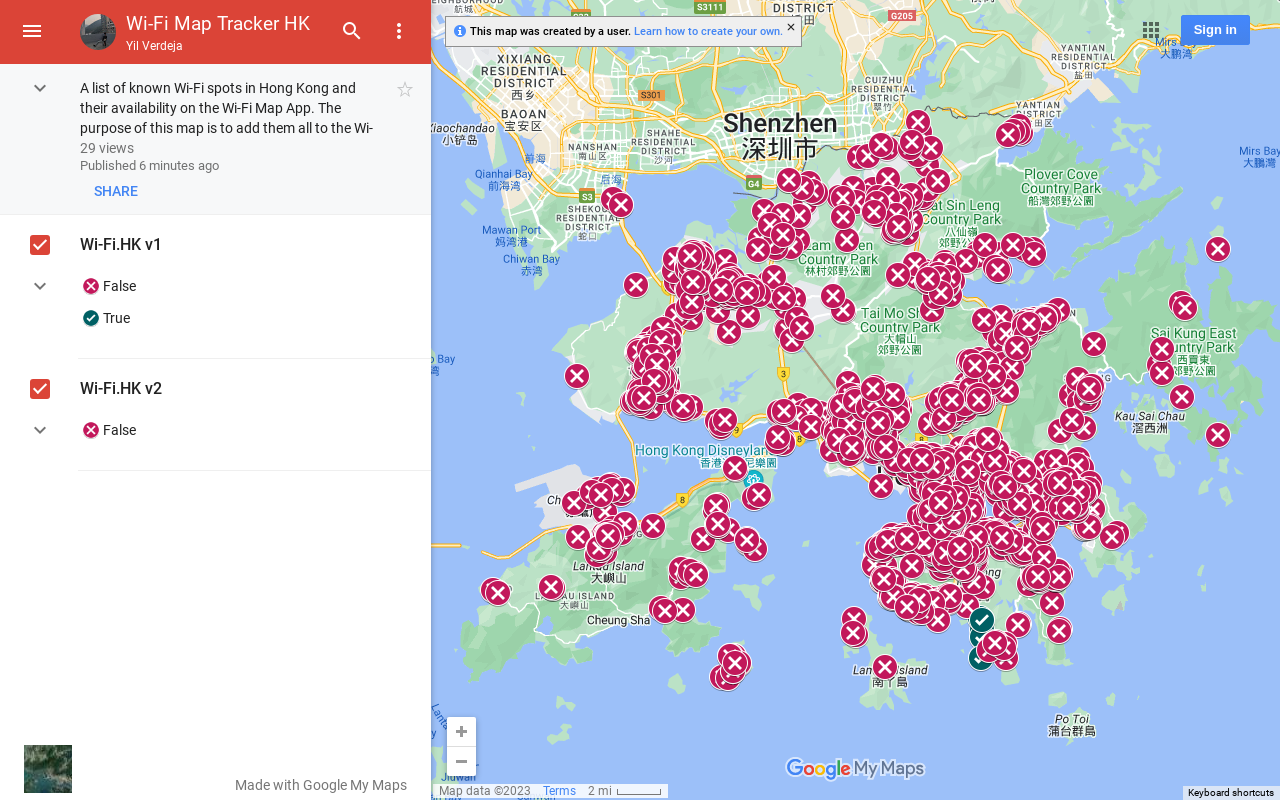
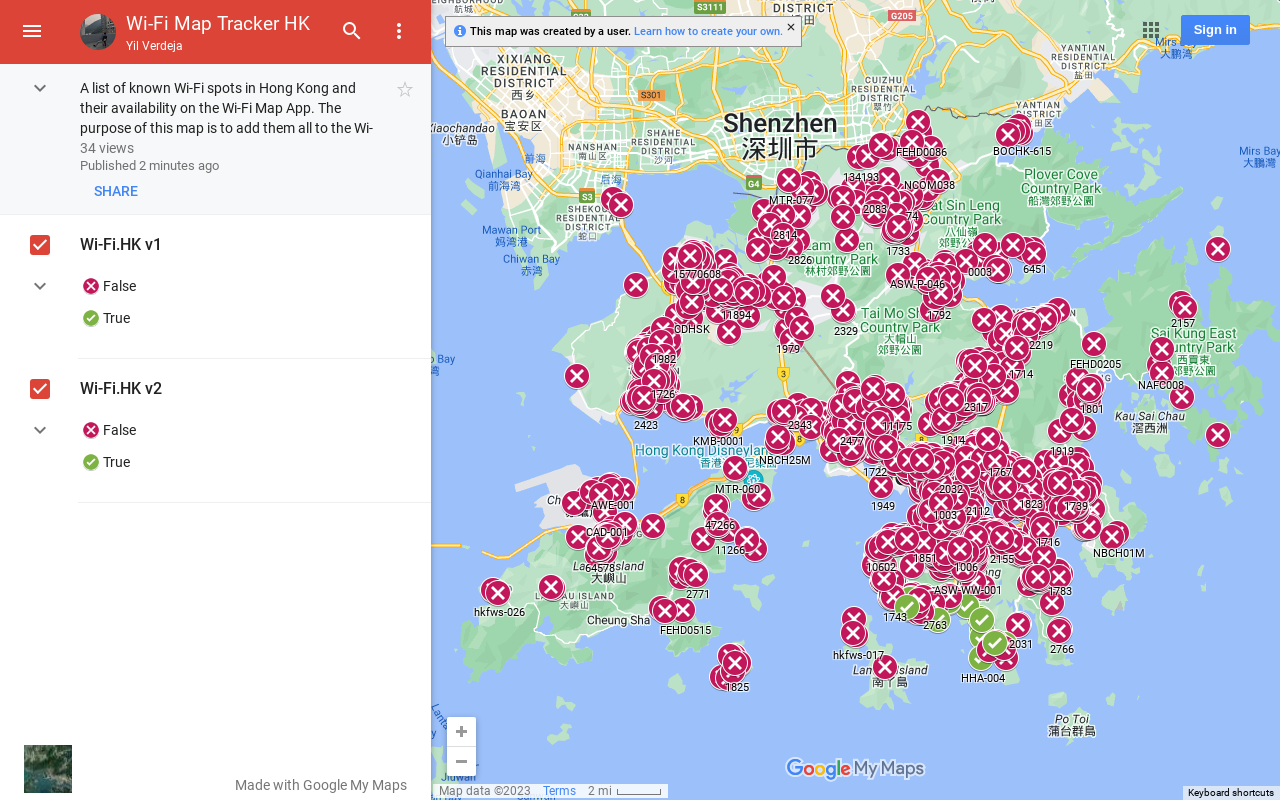
feat: update map snapshot & csv
Updated on: Tue Aug 15 06:43:31 UTC 2023

diff --git a/README.md b/README.md
@@ -12,6 +12,6 @@ See the [wifi-map-hk.csv](https://github.com/yilverdeja/wifi-map-tracker-hk/blob
 <!-- The line under this comment should be blank. If this README is updated, and the line number is not the same as before, then the github action  to write into the README must also be fixed to match it. -->
 **Total:** 2983
 
-**Added:** 7 (0.23%)
+**Added:** 41 (1.37%)
 
-**Not Added:** 2976 (99.77%)
+**Not Added:** 2942 (98.63%)
